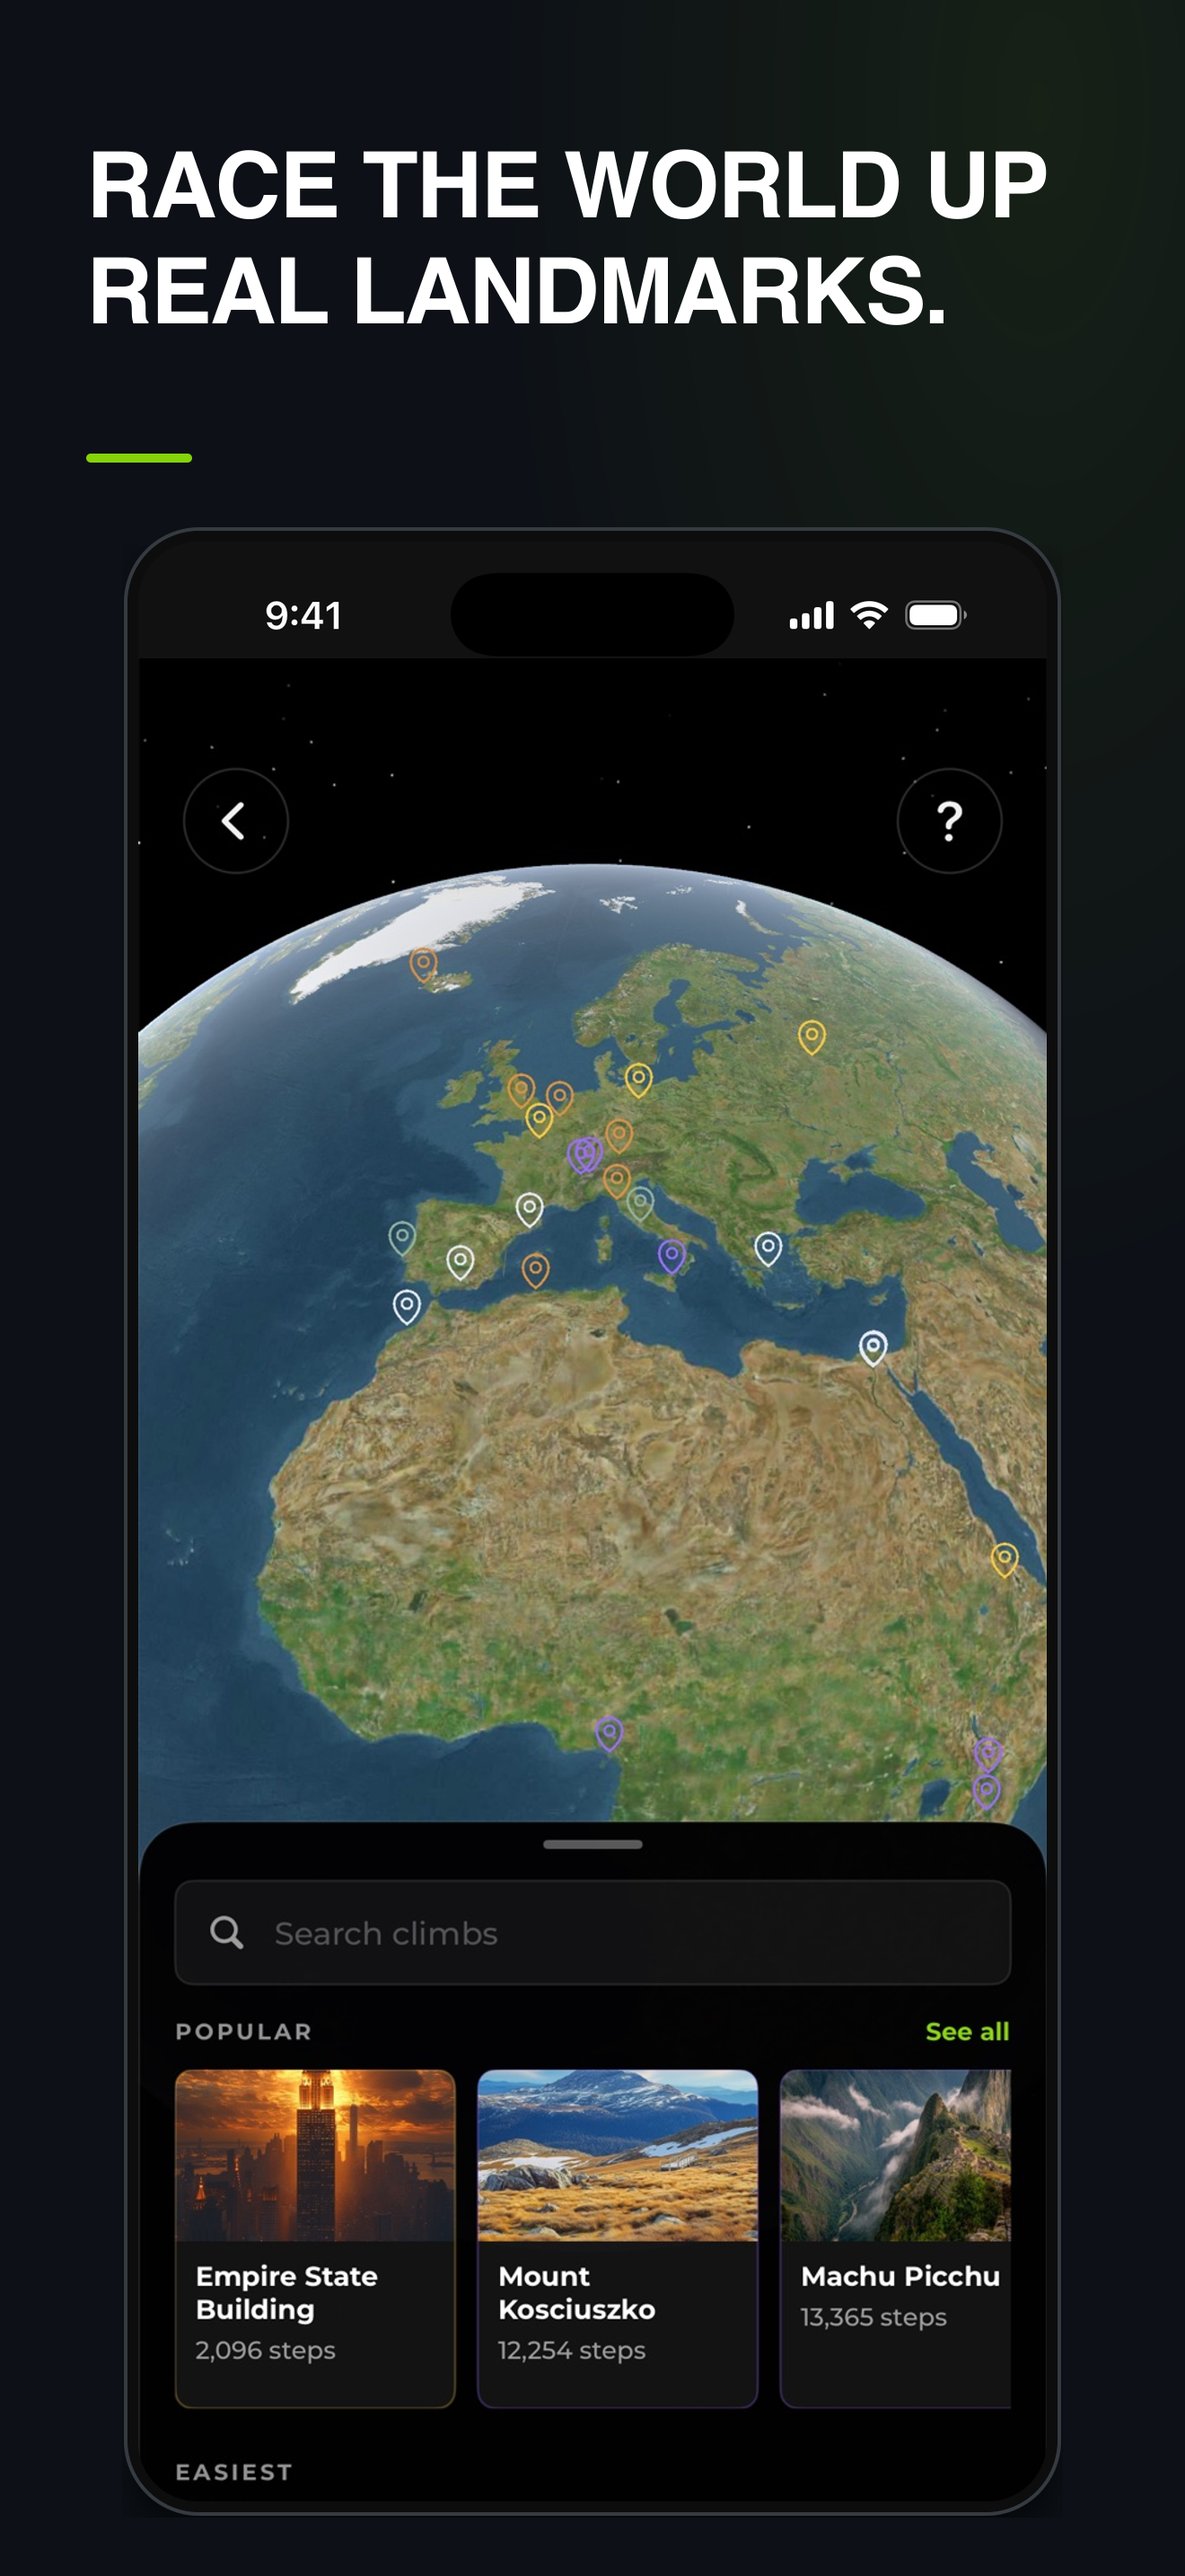
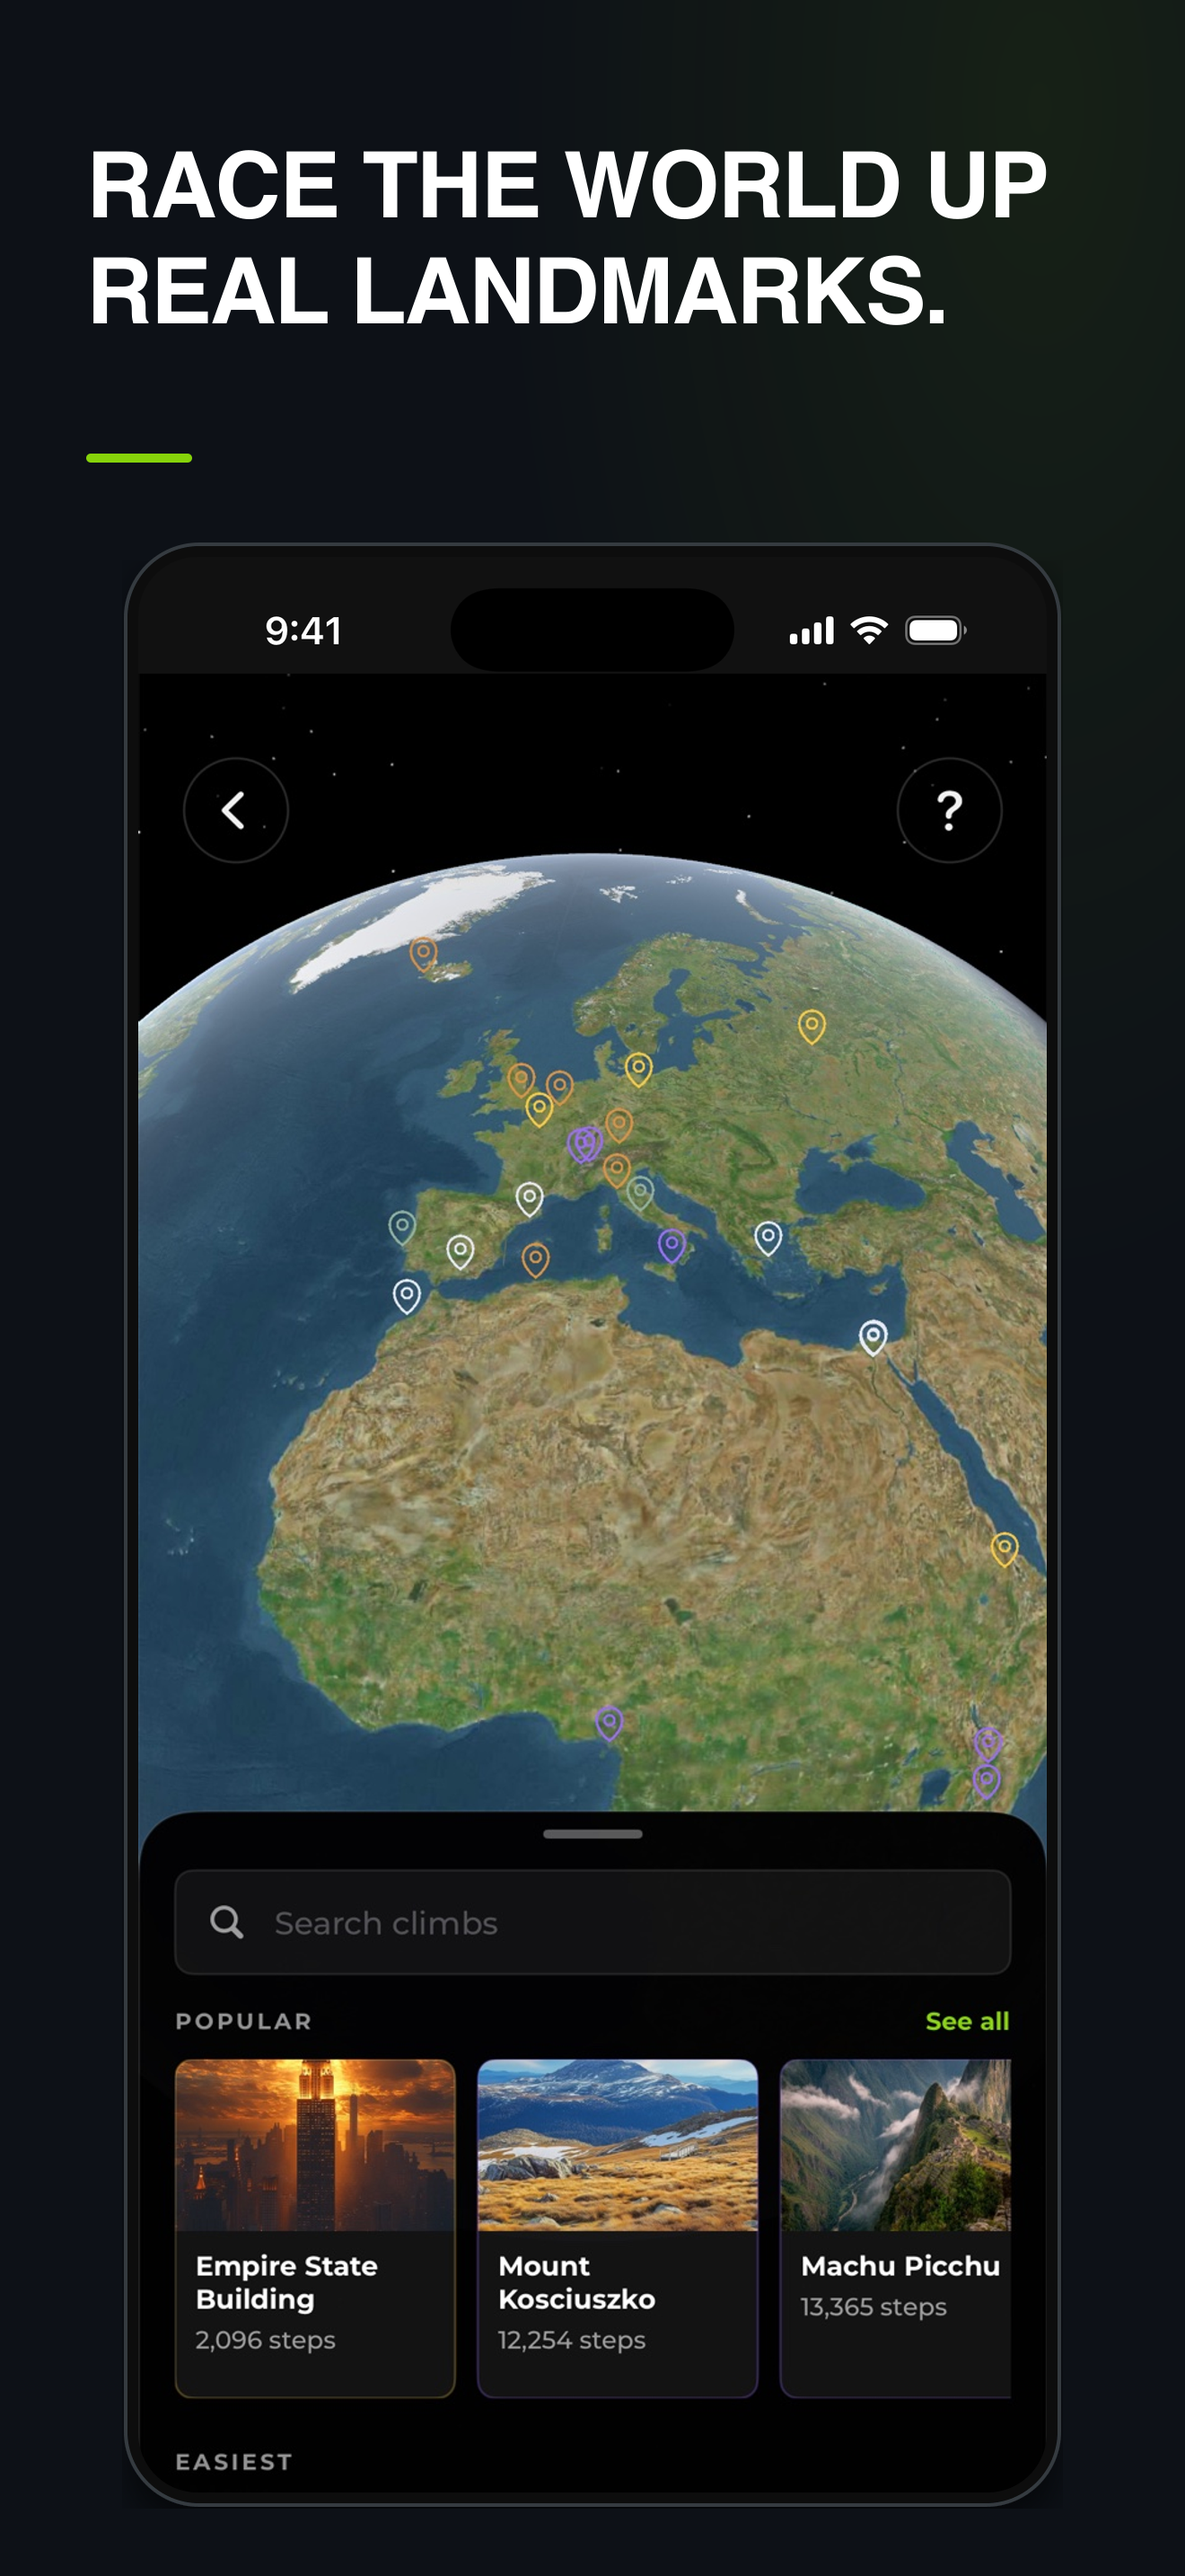
no-mistakes(review): derive screenshot geometry per capture, guard status chrome

diff --git a/AppStoreAssets/qa/review.md b/AppStoreAssets/qa/review.md
@@ -13,28 +13,29 @@ The seven screens form a coherent progression from stair-stepper effort, to Ever
 
 ## Composition
 
-- All seven screens use the same device: 1048 x 2218 with an 18px bezel and a 1012 x 2182 screen, the 19.5:9 proportion of the device the captures came from, so every capture lands at its true shape.
+- All seven screens use the same 1012px-wide screen, 18px bezel and 82px corner radius, near the 19.5:9 proportion of the device the captures came from, so every capture lands at its true shape.
 - Every app body is scaled by width only. No screen loses a column of app UI, so no header, card corner, icon, wreath, row background, or control is cut off sideways.
-- Screens 02 through 07 place the device at (136, 585), ending 65px above the bottom of the canvas with the whole frame visible.
+- Body height is derived per screen from where that capture's clean bottom boundary falls, because the captures are scrolled to different places. Across the framed screens it spans 2025 to 2058 - 33px, 1.5% of the device - and the renderer refuses to render a spread past 40px.
+- The framed devices are centred in one band 2224px tall starting at y=585, so each device's top and bottom edge sits within 17px of its neighbours' and the set reads as one device.
 - Screen 01 runs its device off the bottom of the canvas, so its visible screen is 1012 x 1418. This is what lets the lead screenshot be entirely real: the recap card is about half a screen tall, and the capture has no further chrome-free surface below it, so a fully framed device could only have been completed with invented pixels.
 - The lead pair share the same device width, bezel, corner radius, status bar and headline block. Screen 01 gives more of its canvas to the photograph and less to the device; screen 02 the reverse. Their masses read as a matched pair rather than a repeat.
 - The two approved photographs are full-bleed and byte-identical to the preserved source files; the canvas is within half a percent of their aspect, so the fit is effectively uncropped.
 - Both photographic screens carry genuine Ascend UI.
 - No source is letterboxed.
 
-## Bottom boundaries
+## Window boundaries
 
-Each screen declares the last capture row that must be whole and the first row that must not appear at all, and the renderer refuses to build a body whose bottom edge falls outside that gap.
+Each screen declares the first capture row clear of that device's own status chrome, the last row that must be whole, and the first row that must not appear at all. The renderer refuses to build a body that starts above the status chrome or whose bottom edge falls outside that gap.
 
-| Screen | Last whole element | Bottom edge | First excluded element |
-|---|---|---|---|
-| 01 | recap card, row 1339 | row 1346 | page dots, row 1351 |
-| 02 | supporting copy, row 2107 | row 2601 | end of capture, row 2622 |
-| 03 | Easiest section header, row 1546 | row 1565 | first Easiest card, row 1570 |
-| 04 | End attempt control, row 1766 | row 1774 | home indicator, row 1816 |
-| 05 | rule under the third leaderboard row, row 1550 | row 1565 | fourth row's avatar, row 1574 |
-| 06 | Skip control, row 2380 | row 2601 | end of capture, row 2622 |
-| 07 | chart card's rounded bottom, row 2621 | row 2622 | end of capture, row 2622 |
+| Screen | Body starts | Last whole element | Bottom edge | First excluded element |
+|---|---|---|---|---|
+| 01 | row 262 | recap card, row 1339 | row 1346 | page dots, row 1351 |
+| 02 | row 153 | supporting copy, row 2107 | row 2586 | end of capture, row 2622 |
+| 03 | row 93 | Easiest section header, row 1546 | row 1566 | first Easiest card, row 1567 |
+| 04 | row 44 | End attempt control, row 1766 | row 1772 | home indicator, row 1816 |
+| 05 | row 93 | rule under the third leaderboard row, row 1550 | row 1573 | fourth row's avatar, row 1574 |
+| 06 | row 153 | Skip control, row 2380 | row 2586 | end of capture, row 2622 |
+| 07 | row 170 | chart card's rounded bottom, row 2621 | row 2622 | end of capture, row 2622 |
 
 - No card, row, glyph, icon, or control is sliced at any edge on any screen.
 - Screen 03's Machu Picchu card runs off the right of the phone screen because that carousel scrolls horizontally in the running app; that is the capture's own state, not a crop.
@@ -46,8 +47,9 @@ Each screen declares the last capture row that must be whole and the first row t
 
 - Every screenshot shows 9:41.
 - Every screenshot shows full cellular signal, full Wi-Fi, and full battery.
-- Every screenshot shows the same correctly proportioned Dynamic Island pill.
+- Every screenshot shows exactly one correctly proportioned Dynamic Island pill.
 - The status-bar master is extracted at 1206 x 155 and scaled to 1012 x 130, the same proportion, so the pill and glyphs are not distorted.
+- No capture's own status chrome survives into any body. The island is drawn black, so on a dark capture it hides but on a lighter app surface it renders as a second pill; each screen therefore declares where its device's island ends and the renderer refuses to start a body above that row. Measured: row 91 on the 736-wide captures, row 107 on the 852-wide one, row 151 on the 1206-wide ones. Screen 04's capture was taken with the status bar hidden and has none.
 - The shared interior status-bar pixels are hash-identical across all seven outputs, which is the renderer's guard against a later layer overdrawing that band.
 
 ## Content coherence
@@ -78,4 +80,4 @@ Each screen declares the last capture row that must be whole and the first row t
 - Every file is exactly 1320 x 2868.
 - Every file is sRGB.
 - No file has an alpha channel.
-- The renderer refuses to run if a device would fall outside the band between the headline rule and the bottom of the canvas, if a capture is too short to fill the screen without cropping sideways, or if a body's bottom edge would slice a declared element.
+- The renderer refuses to run if a body would start inside its capture's own status chrome, if a body's bottom edge would slice a declared element or run past the end of its capture, if the framed body heights spread too far to read as one device, if a device would fall outside the band between the headline rule and the bottom of the canvas, or if a bleeding screen were taller than the device outline it is drawn inside.

diff --git a/AppStoreAssets/README.md b/AppStoreAssets/README.md
@@ -34,19 +34,22 @@ Every screen contains genuine Ascend UI, and every pixel inside every phone scre
 
 ## Geometry
 
-The phone screen is sized from the captures rather than the other way round.
-Every capture is a whole 19.5:9 iPhone screen, so the screen is 1012 x 2182 and each capture lands at its true proportions.
-Scaling is always width-driven, which is what keeps app text, card edges and controls off the crop line.
+The phone is sized from the captures rather than the other way round.
+Every capture is a whole 19.5:9 iPhone screen, the screen is 1012px wide, and scaling is always width-driven, which is what keeps app text, card edges and controls off the crop line.
 
-Each screen declares the last capture row that must be whole and the first row that must not appear at all.
-The body height was chosen so every screen's bottom edge lands in the gap between those two rows, and the renderer refuses to build a body that falls outside it.
-`qa/review.md` tabulates the boundary chosen for each screen.
+Each screen declares three capture rows: the first row clear of that device's own status chrome, the last row that must be whole on screen, and the first row that must not appear at all.
+The window between them is what the phone shows, and the renderer refuses to build a body that starts inside the status chrome or ends outside the gap.
+`qa/review.md` tabulates all three for each screen.
+
+Body height therefore follows the capture rather than being fixed, because the captures are scrolled to different places and their clean boundaries do not all land at the same height.
+Across the framed screens it spans 33px - 1.5% of the device - and the devices are centred in one band so the set still reads as one phone; the renderer rejects a spread past 40px.
 
 Screens 02 through 07 show the whole device inside the canvas.
 Screen 01 runs its device off the bottom: the recap card is about half a screen tall and the capture has no further chrome-free surface below it, so a fully framed device could only have been completed with invented pixels. Bleeding it instead keeps the lead screenshot entirely real.
 
 The renderer reuses one status-bar master on all seven screens.
 That master supplies the same 9:41 clock, full signal, full Wi-Fi, full battery, and correctly placed Dynamic Island pill.
+The island is drawn black, so a capture's own island hides against a dark app surface and shows as a second pill against a lighter one; the declared status-chrome row is what keeps it out of every body.
 
 ## Render
 
@@ -60,5 +63,5 @@ node AppStoreAssets/render-screenshots.mjs
 
 Every path other than that Sharp lookup is derived from the script's own location, so the working directory does not matter.
 
-Before writing anything the renderer checks that each device fits between the headline rule and the bottom of the canvas, that each capture is tall enough to fill the screen without cropping sideways, and that no body's bottom edge slices a declared element.
+Before writing anything the renderer checks that no body starts inside its capture's own status chrome, that no body's bottom edge slices a declared element or runs past the end of its capture, that the framed body heights stay close enough to read as one device, that each device fits between the headline rule and the bottom of the canvas, and that a bleeding screen is never taller than the device outline it is drawn inside.
 After rendering it validates the exact file count, dimensions, sRGB color space, absence of alpha, and status-bar uniformity, then writes the contact sheet.
